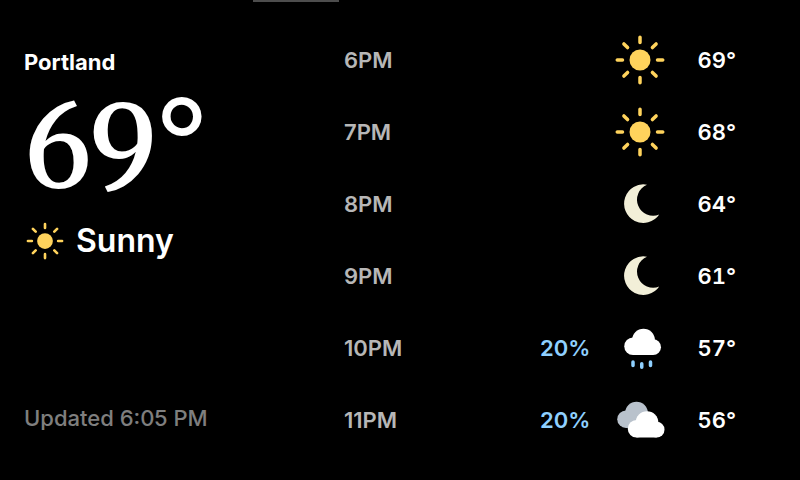
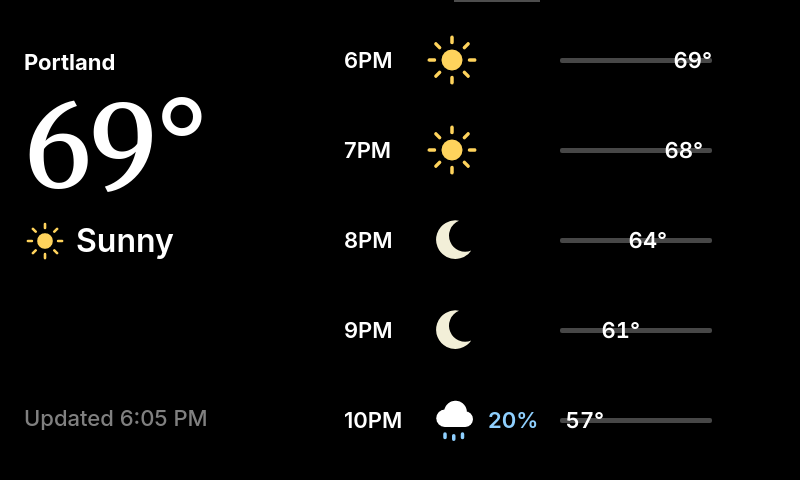
Rework the weather's Today view and left-align the forecast hours
Today follows Figma 202:1565: five hours, each with its icon and chance of
rain, and the temperature breaking a bare track at a position scaled to the
whole day's low and high. On the forecast, each hour hugs its text and is
left-aligned, spread edge to edge so the first lines up with the day names
and the last with the highs; the icons take no width and centre on the hour.

diff --git a/ui/css/app.css b/ui/css/app.css
@@ -631,12 +631,24 @@ h3 {
 }
 
 /* Hourly on top, the days 28px below; with the 22px row gap the last day lines up with the
-   rail's Updated line. Both are grids: columns grow with their content, but never narrower
-   than the Figma frame's, so ordinary values sit where the design puts them. */
+   rail's Updated line. Both are grids. The days' columns grow with their content, but never
+   narrower than the Figma frame's, so ordinary values sit where the design puts them. */
 .w-hourly {
   grid-auto-flow: column;
-  grid-auto-columns: minmax(64px, auto);
+  grid-auto-columns: auto;
   justify-content: space-between;
+}
+/* Each hour hugs its text, left-aligned (Figma 202:1788), and the hours spread edge to edge: the
+   first lines up with the day names below, the last ends at the right edge. The icon takes no
+   width of its own (its negative margins cancel its 56px) and centres on the hour: inset in a
+   wide one, hanging out both sides of a narrow one. */
+.w-hourly.grid > * {
+  align-items: flex-start;
+}
+.w-hourly.grid > * svg {
+  align-self: center;
+  margin-left: -28px;
+  margin-right: -28px;
 }
 .w-hourly svg {
   width: 56px;
@@ -686,7 +698,7 @@ h3 {
 }
 
 /* Today and This Week (the weather button again, WeatherToday.vue and WeatherWeek.vue; Figma
-   165:1688 and 165:1805, without the week's hairline): six 24px rows spread down the stage's insets, their 56px icons
+   202:1565 and 165:1805, without the week's hairline): five or six 24px rows spread down the stage's insets, their 56px icons
    overhanging the rows. */
 .w-row {
   height: 24px;
@@ -708,7 +720,30 @@ h3 {
   flex: none;
   width: 56px;
 }
-/* The week ends 88px from the stage's right edge. */
+/* Today's forecast column is a 56px icon and a 48px chance of rain, 112px wide either way. The
+   temperature breaks a bare track, 8px clear each side: the day's low puts it at the start, the
+   high at the end. */
+.w-today-forecast {
+  width: 112px;
+}
+.w-today-line {
+  flex: 1 1 0;
+  height: 5px;
+  border-radius: 3px;
+  background: var(--bar-track);
+}
+.w-today-temp {
+  flex: none;
+  min-width: 44px;
+}
+.w-today-line + .w-today-temp {
+  margin-left: 8px;
+}
+.w-today-temp + .w-today-line {
+  margin-left: 8px;
+}
+/* Today and the week end 88px from the stage's right edge. */
+.w-today,
 .w-week {
   right: 88px;
 }

diff --git a/ui/src/components/WeatherToday.vue b/ui/src/components/WeatherToday.vue
@@ -1,21 +1,36 @@
 <script setup>
+import { computed } from "vue";
 import { CT } from "../state.js";
 import WeatherIcon from "./WeatherIcon.vue";
-// Today (the weather button again): the next six hours as rows, spread down the stage's insets
-// (Figma 165:1688). Each row: the hour, its chance of rain when it's worth mentioning, icon, temp.
-defineProps({ hours: Array, tz: Number });
+// Today (the weather button again): the next five hours as rows, spread down the stage's insets
+// (Figma 202:1565). Each row: the hour, its icon and chance of rain when it's worth mentioning,
+// and its temperature riding a bar scaled to the whole day's low to high (stretched if an hour
+// past midnight goes beyond it).
+const props = defineProps({ hours: Array, day: Object, tz: Number });
+const rows = computed(() => {
+  const temps = props.hours.map((h) => h.temp),
+    min = Math.min(props.day.lo, ...temps),
+    span = Math.max(1, Math.max(props.day.hi, ...temps) - min);
+  return props.hours.map((h) => ({ ...h, at: (h.temp - min) / span }));
+});
 </script>
 <template>
-  <div class="w-rows flex-col justify-between">
+  <div class="w-rows w-today flex-col justify-between">
     <div
-      v-for="h in hours"
+      v-for="h in rows"
       :key="h.t"
       class="w-row flex items-center gap-24 font-small semibold"
     >
-      <div class="flex-1 secondary">{{ CT.hourText(h.t, tz) }}</div>
-      <div class="w-row-pop w-pop">{{ h.pop >= 20 ? h.pop + "%" : "" }}</div>
-      <WeatherIcon class="flex-none" :code="h.code" :is-day="!!h.isDay" />
-      <div class="w-row-temp text-right tabular">{{ h.temp }}°</div>
+      <div class="w-row-day">{{ CT.hourText(h.t, tz) }}</div>
+      <div class="w-today-forecast flex-none flex items-center gap-8">
+        <WeatherIcon class="flex-none" :code="h.code" :is-day="!!h.isDay" />
+        <div v-if="h.pop >= 20" class="w-row-pop w-pop">{{ h.pop }}%</div>
+      </div>
+      <div class="w-today-range flex-1 flex items-center">
+        <i v-if="h.at > 0" class="w-today-line" :style="{ flexGrow: h.at }" />
+        <div class="w-today-temp text-right tabular">{{ h.temp }}°</div>
+        <i v-if="h.at < 1" class="w-today-line" :style="{ flexGrow: 1 - h.at }" />
+      </div>
     </div>
   </div>
 </template>

diff --git a/scripts/mock-screens.js b/scripts/mock-screens.js
@@ -82,7 +82,7 @@ async function evaluate(expression) {
 const send = (msg) => evaluate(`window.__mockReceive(${JSON.stringify(msg)})`);
 
 // weather-today and weather-week: the weather screen's button pressed until that view is up.
-const views = { today: '.w-rows:not(.w-week)', week: '.w-week' };
+const views = { today: '.w-today', week: '.w-week' };
 async function capture(screen) {
   const [base, view] = screen.split('-');
   await evaluate(`CT.show(${JSON.stringify(base)})`);

diff --git a/ui/src/screens/WeatherScreen.vue b/ui/src/screens/WeatherScreen.vue
@@ -85,7 +85,8 @@ CT.screen("weather").reselect = () => {
       <WeatherToday
         v-if="ok && view === 'today'"
         class="stage-safe"
-        :hours="data.hourly.slice(0, 6)"
+        :hours="data.hourly.slice(0, 5)"
+        :day="data.daily[0]"
         :tz="tz"
       />
       <WeatherWeek

diff --git a/README.md b/README.md
@@ -30,10 +30,10 @@ The four screens:
 
 - **Now Playing** follows whatever is playing in Control Center's Now Playing: Apple Music, Spotify, Podcasts, YouTube in a browser, and so on. It shows the artist, title, album, progress and artwork, plus a paused state, an app badge for non-Music sources, and the analog clock face when nothing is playing. Optionally the artwork also fills the screen behind everything, blurred and tinted.
 - **Calendar** shows today's remaining events and, by default, tomorrow's under their own heading. Choose how many days (1–7) and which calendars on the Mac settings page. Press the calendar button again while it's up to see the whole month, with today circled; press it once more to go back to the agenda.
-- **Weather** shows the current conditions, the next five hours and four days. It uses [Open-Meteo](https://open-meteo.com) (free, no account) for your Mac's location or a place you pick. Press the weather button again while it's up to list the next six hours (Today), once more for the next six days (This Week), and a third time to go back to the forecast.
+- **Weather** shows the current conditions, the next five hours and four days. It uses [Open-Meteo](https://open-meteo.com) (free, no account) for your Mac's location or a place you pick. Press the weather button again while it's up to list the next five hours (Today), once more for the next six days (This Week), and a third time to go back to the forecast.
 - **Clock** shows an analog face (plain or with numbers) or a digital one — pick which on the Mac settings page — plus the next event still to come today, or "No events today". Press the clock button again while the clock is up to swap in a timer: turn the knob to pick 5, 10, 15, 30, 45 or 60 minutes, press it to start or pause, and press twice to reset. The screen flashes when the time is up. Press the clock button again to go back to the clock; while the timer is running or paused, the knob still sets the volume.
 
-<img src="docs/weather-today-polvo.png" width="49%" alt="Weather's Today view: the next six hours"> <img src="docs/weather-week-polvo.png" width="49%" alt="Weather's This Week view: the next six days">
+<img src="docs/weather-today-polvo.png" width="49%" alt="Weather's Today view: the next five hours"> <img src="docs/weather-week-polvo.png" width="49%" alt="Weather's This Week view: the next six days">
 
 _Weather's Today and This Week views, from the same fixture data (rendered in Chromium rather than captured on the device)._
 
